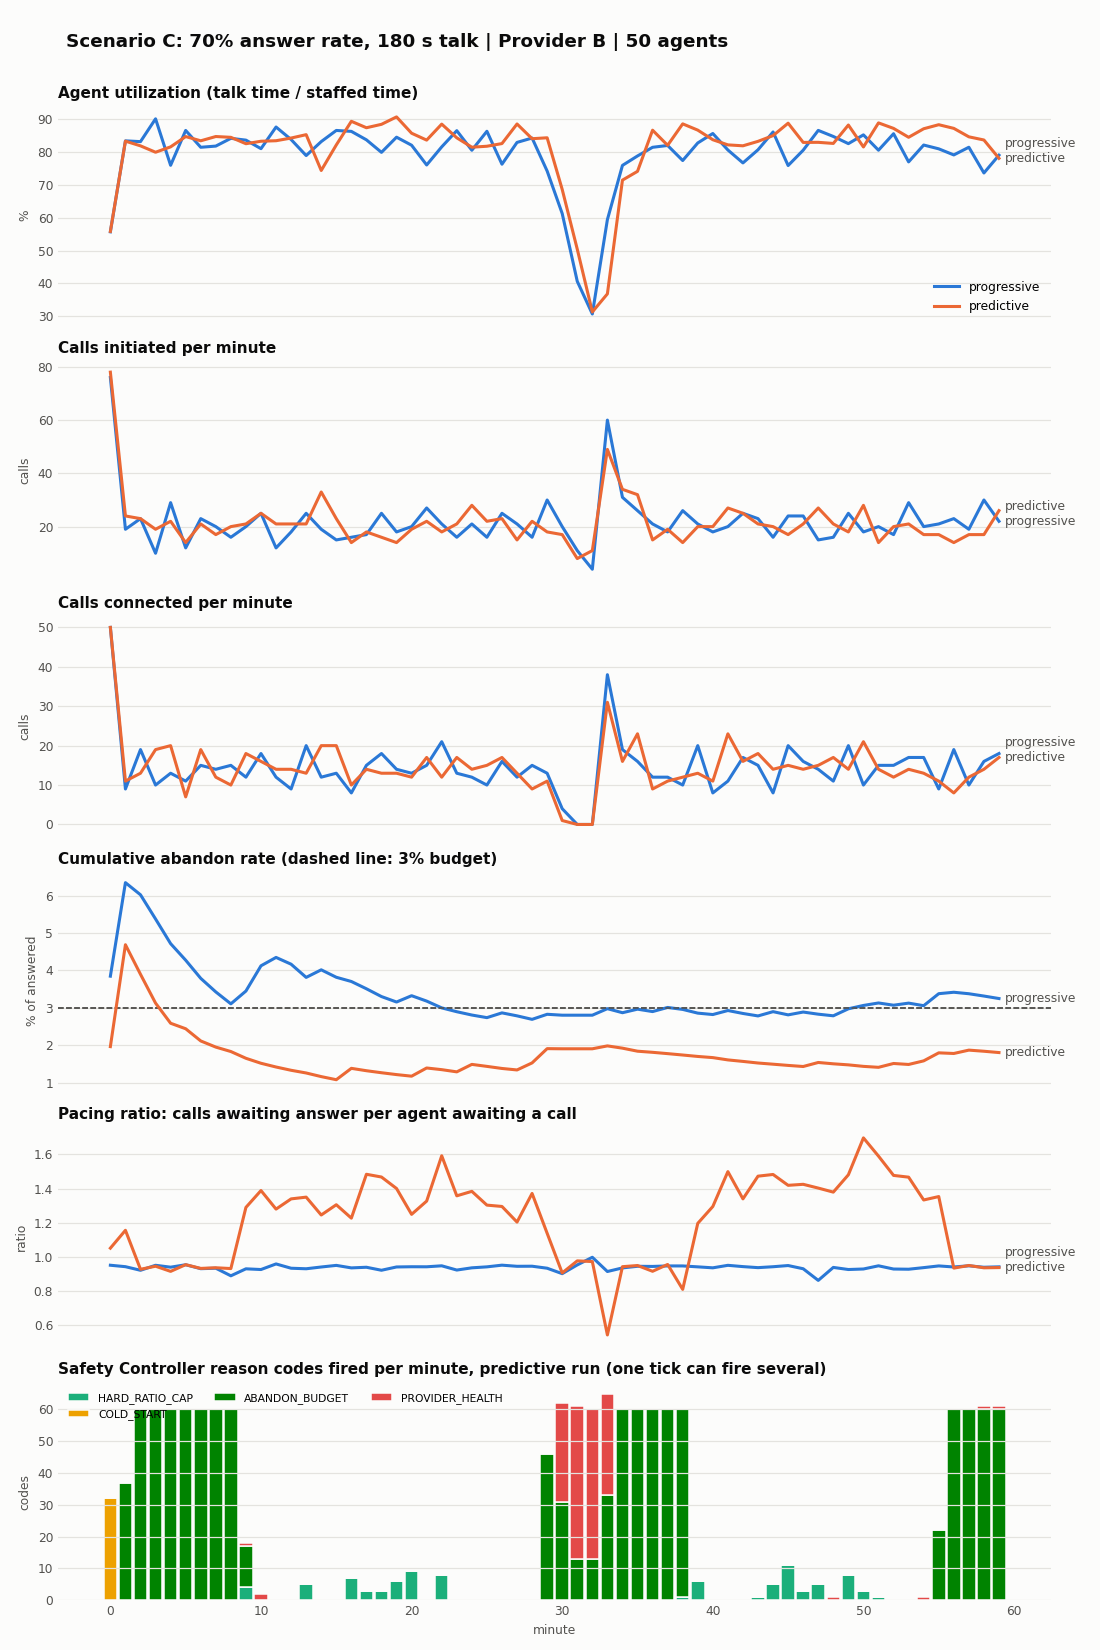
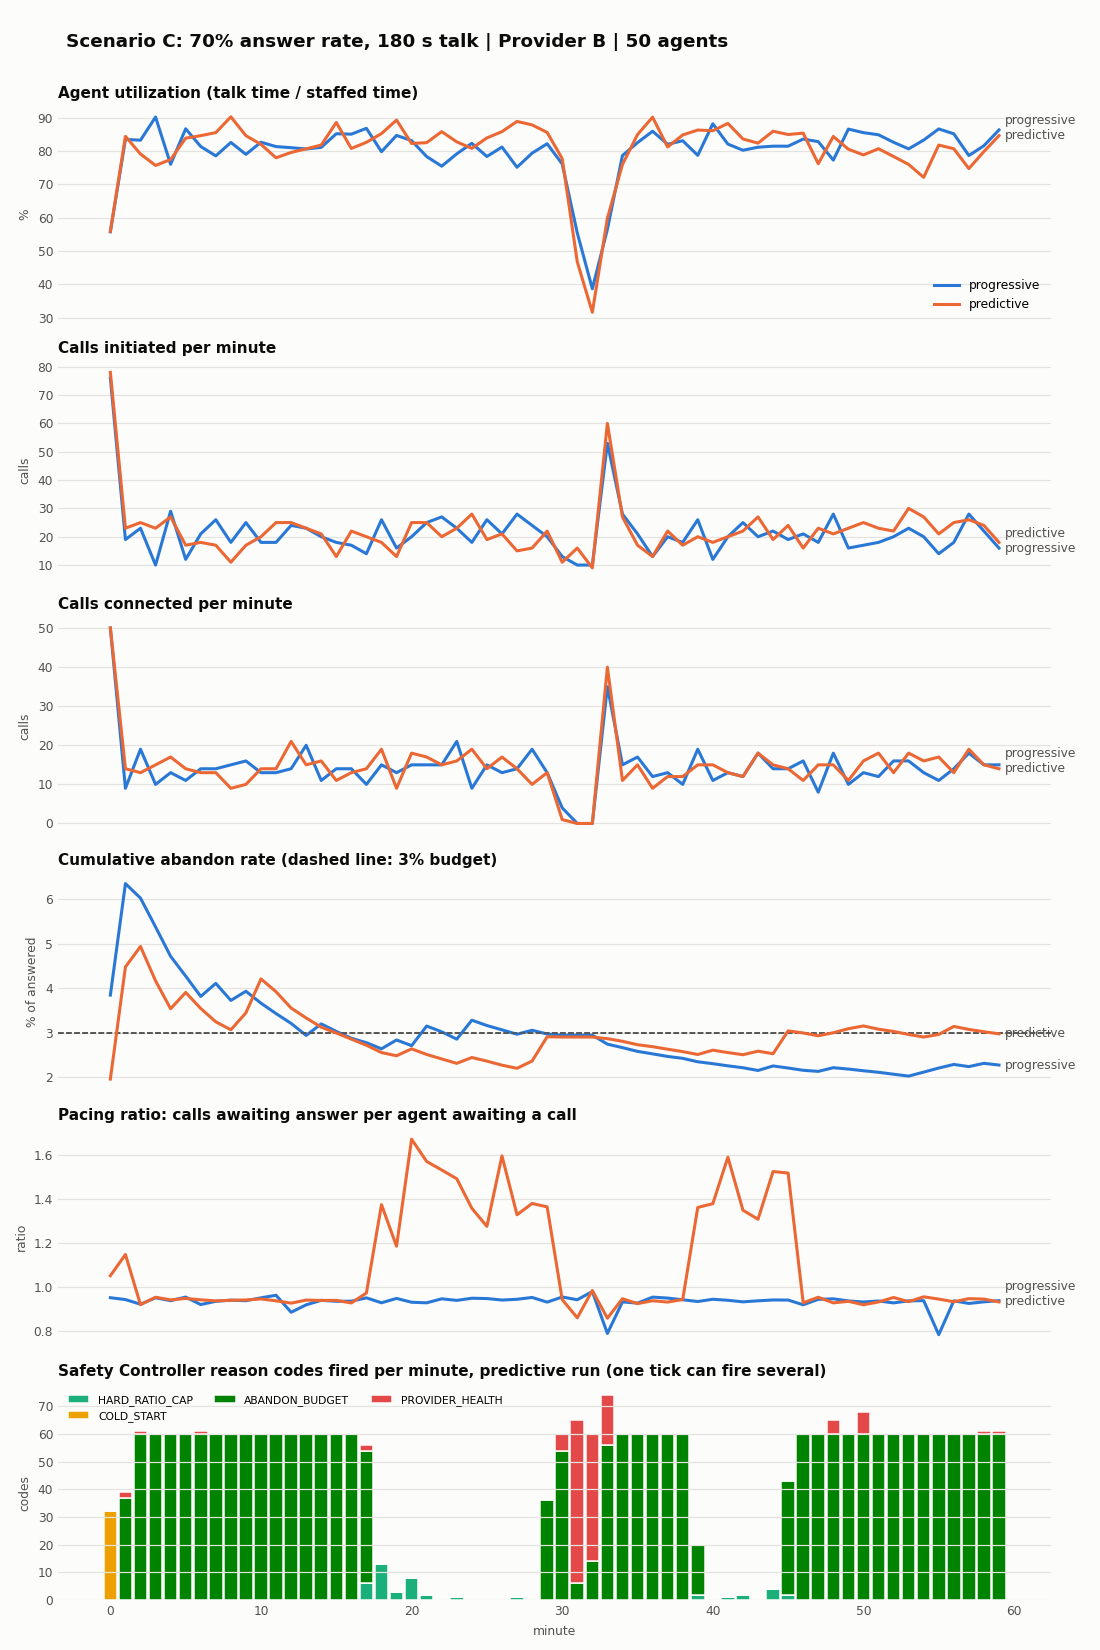
Ramp approvals back up after the breaker closes
After HALF_OPEN -> CLOSED the decider released full volume on the first
tick (0 -> 38 in the outage demo). Approvals are now capped for
recovery_ramp_s (20 s) at a fraction that grows linearly from
recovery_start_factor (20%) to 100%, reason PROVIDER_HEALTH. The age comes
from provider_health.opened_at, so it is the same for every worker. The
simulator applies the same rule; SIMULATION_RESULTS regenerated.

Why the breaker reopened at 50 s after OUTAGE OFF at 46.4 s: not window
pollution. Windows only count attempts created after the last state change.
The HALF_OPEN probes were dialed while the provider was still down, never
got a provider call id, and counted as failed after 3.5 s pending, which
landed after OUTAGE OFF. The demo now prints probes during vs after the
outage to show this.

diff --git a/demos/provider_outage.py b/demos/provider_outage.py
@@ -60,6 +60,7 @@ def main():
         time.sleep(25)
         say("OUTAGE OFF")
         control("B", outage=False)
+        outage_off = conn.execute("SELECT now() AS t").fetchone()["t"]
         recovered = wait_for(lambda: conn.execute(
             "SELECT 1 FROM safety_decisions WHERE at > now() - interval '1 second' AND approved_count > 0"
             " AND outcome <> 'REJECT'").fetchone() and conn.execute(
@@ -76,6 +77,20 @@ def main():
         print(f"\n  decisions rejected for PROVIDER_HEALTH: {opened}")
         print(f"  calls dialed against a REJECT decision: {dialed_while_open} (must be 0)")
         print(f"  breaker recovered to CLOSED and approvals resumed: {bool(recovered)}")
+        # Why the breaker can reopen right around OUTAGE OFF: HALF_OPEN lets a few probe calls through.
+        # A probe placed while the provider is still down hangs, counts as failed 3.5 s later, and the
+        # breaker correctly goes back to OPEN; that flip can land after OUTAGE OFF.
+        for label, cmp in (("during the outage", "<"), ("after recovery", ">=")):
+            r = conn.execute(f"""SELECT count(*) AS n, count(*) FILTER (WHERE c.provider_call_id IS NULL) AS failed
+                                FROM calls c JOIN dial_permits p ON p.id = c.permit_id
+                                JOIN safety_decisions d ON d.id = p.decision_id
+                                WHERE d.snapshot->>'breaker_state' = 'HALF_OPEN' AND c.created_at {cmp} %s""",
+                             (outage_off,)).fetchone()
+            print(f"  HALF_OPEN probe calls placed {label}: {r['n']}, never accepted by the provider: {r['failed']}")
+        ramp = [r["approved_count"] for r in conn.execute(
+            """SELECT approved_count FROM safety_decisions WHERE at > %s AND snapshot->>'breaker_state' = 'CLOSED'
+               ORDER BY id LIMIT 8""", (outage_off,))]
+        print(f"  approvals after the breaker closed again (ramping from 20%): {ramp}")
         finish(conn, opened > 0 and dialed_while_open == 0 and bool(recovered))
 
 

diff --git a/sim/simulator.py b/sim/simulator.py
@@ -88,7 +88,7 @@ class Sim:
         self.hold: deque[Call] = deque()              # answered, waiting for an agent
         self.abandon_win: deque[bool] = deque(maxlen=self.cfg.abandon_window)
         self.memory: dict = {}
-        self.breaker_state, self.breaker_since = "CLOSED", 0.0
+        self.breaker_state, self.breaker_since, self.breaker_changed = "CLOSED", 0.0, False
         self.attempts: deque[tuple[float, bool]] = deque(maxlen=2000)
         self.buckets = [Bucket() for _ in range(int(sc.duration_s // 60) + 1)]
         self.decisions: list[dict] = []
@@ -153,7 +153,8 @@ class Sim:
             connected=sum(c.state == "CONNECTED" for c in live),
             window_n=len(window), window_answered=sum(window), short_n=len(short_w), short_answered=sum(short_w),
             abandon_n=len(self.abandon_win), abandon_count=sum(self.abandon_win),
-            avg_setup_s=None, avg_talk_s=None, max_staffed_recent=len(self.agents))
+            avg_setup_s=None, avg_talk_s=None, max_staffed_recent=len(self.agents),
+            breaker_age_s=self.t - self.breaker_since if self.breaker_changed else None)
 
     def tick(self):
         self.at(1.0, self.tick)
@@ -187,7 +188,7 @@ class Sim:
         new = breaker.next_state(self.breaker_state, self.breaker_since, self.t, sum(recent), len(recent) - sum(recent),
                                  sum(probes), len(probes) - sum(probes))
         if new != self.breaker_state:
-            self.breaker_state, self.breaker_since = new, self.t
+            self.breaker_state, self.breaker_since, self.breaker_changed = new, self.t, True
 
     # ------------------------------------------------------------------ allocator + provider model
     def dispatch(self, n: int, mode: str):

diff --git a/tests/test_safety_rules.py b/tests/test_safety_rules.py
@@ -117,3 +117,17 @@ def test_pacer_cannot_switch_safety_off():
     snapshot is still capped."""
     d, _ = run(pred(10_000), snap(available=2, abandon_n=100, abandon_count=10))
     assert d.approved_calls <= 2 and d.mode == "PROGRESSIVE"
+
+
+def test_recovery_ramp_after_breaker_closes():
+    """Just CLOSED after an outage: start at 20% of the approval and ramp linearly to 100% over 20 s."""
+    full = run(pred(20), snap(available=10, breaker_state="CLOSED", breaker_age_s=None))[0]
+    assert (full.approved_calls, full.reason_codes) == (20, ()), "never tripped: no ramp"
+    start = run(pred(20), snap(available=10, breaker_state="CLOSED", breaker_age_s=0.0))[0]
+    assert (start.outcome, start.approved_calls, start.reason_codes) == ("REDUCE", 4, ("PROVIDER_HEALTH",))
+    half = run(pred(20), snap(available=10, breaker_state="CLOSED", breaker_age_s=10.0))[0]
+    assert half.approved_calls == 12, "20 x (0.2 + 0.8 x 0.5)"
+    done = run(pred(20), snap(available=10, breaker_state="CLOSED", breaker_age_s=20.0))[0]
+    assert done.approved_calls == 20 and "PROVIDER_HEALTH" not in done.reason_codes
+    tiny = run(pred(1), snap(available=10, breaker_state="CLOSED", breaker_age_s=0.0))[0]
+    assert tiny.approved_calls == 1, "never ramps a nonzero approval down to zero"

diff --git a/smartdialer/domain/safety_rules.py b/smartdialer/domain/safety_rules.py
@@ -89,6 +89,18 @@ def decide(proposal: PacingProposal, snap: Snapshot, cfg: CampaignSettings, memo
         notes.append(f"breaker HALF_OPEN: at most {cfg.half_open_probes} probe calls")
         approved = cfg.half_open_probes
         outcome = outcome if outcome == "FALLBACK_TO_PROGRESSIVE" else "REDUCE"
+    # PROVIDER_HEALTH (recovery): the breaker has only just CLOSED again, on the strength of a few
+    # probe calls. Ramp volume back up linearly over recovery_ramp_s instead of releasing the whole
+    # backlog at once onto a provider that may still be fragile.
+    age = snap.breaker_age_s
+    if snap.breaker_state == "CLOSED" and age is not None and age < cfg.recovery_ramp_s and approved > 0:
+        frac = cfg.recovery_start_factor + (1 - cfg.recovery_start_factor) * age / cfg.recovery_ramp_s
+        ramped = max(1, math.floor(approved * frac))
+        if ramped < approved:
+            reasons.append("PROVIDER_HEALTH")
+            notes.append(f"breaker closed {age:.0f}s ago: ramping, {approved} x {frac:.2f} -> {ramped}")
+            approved = ramped
+            outcome = outcome if outcome == "FALLBACK_TO_PROGRESSIVE" else "REDUCE"
 
     return SafetyDecision(approved, mode, outcome, tuple(reasons), notes=tuple(notes)), mem
 

diff --git a/smartdialer/safety/snapshot.py b/smartdialer/safety/snapshot.py
@@ -11,6 +11,8 @@ SELECT now() AS taken_at,
        c.fencing_token,
        (c.pacing_lease_owner = %(worker)s AND c.pacing_lease_expires_at > now()) AS lease_mine,
        COALESCE((SELECT breaker_state FROM provider_health WHERE provider_name = c.provider_name), 'CLOSED') AS breaker_state,
+       (SELECT EXTRACT(EPOCH FROM now() - opened_at) FROM provider_health WHERE provider_name = c.provider_name)
+           AS breaker_age_s,
        a.*, k.*, w.*, ab.*, avgs.*,
        COALESCE((SELECT max((s.snapshot->>'staffed')::int) FROM safety_decisions s
                  WHERE s.campaign_id = c.id AND s.at > now() - %(drop_window)s * interval '1 second'), 0)
@@ -77,4 +79,5 @@ def load_snapshot(conn, campaign_id: int, cfg: CampaignSettings, worker_id: str,
         avg_setup_s=float(r["avg_setup_s"]) if r["avg_setup_s"] is not None else None,
         avg_talk_s=float(r["avg_talk_s"]) if r["avg_talk_s"] is not None else None,
         max_staffed_recent=r["max_staffed_recent"],
+        breaker_age_s=float(r["breaker_age_s"]) if r["breaker_age_s"] is not None else None,
     )

diff --git a/smartdialer/config.py b/smartdialer/config.py
@@ -39,6 +39,8 @@ class CampaignSettings:
     agent_drop_cooldown_s: float = 30.0
     half_open_probes: int = 3
     degraded_factor: float = 0.5
+    recovery_ramp_s: float = 20.0           # after the breaker closes, ramp volume back up over this long
+    recovery_start_factor: float = 0.2      # ... starting from this fraction of what would be approved
     # Reconciliation (reaper)
     reconcile_pre_dial_s: float = 5.0       # pre-INITIATED longer than this: ask the provider
     reconcile_in_flight_s: float = 60.0     # INITIATED / RINGING with no news for this long

diff --git a/smartdialer/domain/types.py b/smartdialer/domain/types.py
@@ -34,6 +34,7 @@ class Snapshot:
     avg_setup_s: float | None
     avg_talk_s: float | None
     max_staffed_recent: int     # highest `staffed` seen in recent decisions (agent-drop rule)
+    breaker_age_s: float | None = None   # seconds in the current breaker state; None = never changed
 
     def to_json(self) -> dict:
         d = asdict(self)

diff --git a/docs/SIMULATION_RESULTS.md b/docs/SIMULATION_RESULTS.md
@@ -69,20 +69,20 @@ These follow directly from the table and charts:
 |---|---|---|---|---|---|---|---|
 | A | A | progressive | 47.0% | 13.0 | 0.00% | 0 / 609 | 0% |
 | A | A | predictive | 64.7% | 18.4 | 0.00% | 0 / 860 | 100% |
-| A | B | progressive | 44.2% | 12.7 | 2.80% | 17 / 608 | 0% |
-| A | B | predictive | 51.3% | 15.5 | 2.68% | 20 / 745 | 43% |
+| A | B | progressive | 41.8% | 11.9 | 1.94% | 11 / 567 | 0% |
+| A | B | predictive | 53.2% | 14.8 | 2.54% | 18 / 708 | 51% |
 | B | A | progressive | 63.2% | 25.0 | 0.00% | 0 / 1166 | 0% |
 | B | A | predictive | 70.4% | 26.8 | 0.00% | 0 / 1252 | 100% |
-| B | B | progressive | 58.9% | 23.4 | 1.89% | 21 / 1113 | 0% |
-| B | B | predictive | 64.1% | 24.6 | 1.96% | 23 / 1173 | 53% |
+| B | B | progressive | 59.2% | 23.6 | 2.22% | 25 / 1127 | 0% |
+| B | B | predictive | 62.0% | 24.7 | 2.53% | 30 / 1184 | 44% |
 | C | A | progressive | 85.3% | 16.7 | 0.00% | 0 / 779 | 0% |
 | C | A | predictive | 88.2% | 17.3 | 0.37% | 3 / 812 | 100% |
-| C | B | progressive | 83.4% | 16.3 | 3.05% | 24 / 787 | 0% |
-| C | B | predictive | 84.2% | 16.3 | 1.68% | 13 / 772 | 71% |
+| C | B | progressive | 83.4% | 16.2 | 1.94% | 15 / 773 | 0% |
+| C | B | predictive | 84.0% | 16.5 | 2.90% | 23 / 794 | 35% |
 | D | A | progressive | 55.6% | 18.2 | 0.00% | 0 / 851 | 0% |
 | D | A | predictive | 65.4% | 21.1 | 0.30% | 3 / 989 | 98% |
-| D | B | progressive | 53.5% | 17.1 | 2.45% | 20 / 817 | 0% |
-| D | B | predictive | 52.2% | 17.3 | 3.58% | 30 / 837 | 19% |
+| D | B | progressive | 54.7% | 16.9 | 1.98% | 16 / 807 | 0% |
+| D | B | predictive | 58.0% | 19.3 | 2.17% | 20 / 921 | 38% |
 | E | A | progressive | 65.8% | 19.3 | 0.00% | 0 / 580 | 0% |
 | E | A | predictive | 74.6% | 20.6 | 0.48% | 3 / 622 | 76% |
 | F | A | progressive | 50.3% | 15.0 | 0.00% | 0 / 449 | 0% |

diff --git a/PLAN.md b/PLAN.md
@@ -421,3 +421,4 @@ Each of these came from a failing demo, test or load run, not from preference.
 | D12 | `loadtest/report.py` | Folded into `loadtest/run.py` | One file was enough |
 | D13 | Each call transaction consumes one permit unit (the permit row stays locked until commit) | Workers claim up to 10 units per short statement; each call pins the permit `FOR KEY SHARE`; unused units are dropped; revoke is two steps (retire, then `FOR UPDATE` to wait for earlier pins). Invariant becomes calls <= claimed <= approved | Measured by the load test: the permit row serialized dispatch per campaign (~110 to 120/s, throughput fell with more workers). After: p50 reservation 18 ms to 4.6 ms, +28% to +77% throughput. See ADR-4 and SCALING.md |
 | D14 | ANSWERED always bridges the agent when applied | An ANSWERED applied more than `max_answer_hold_ms` after the answer (earliest of provider timestamp and receive time), or with COMPLETED already in the inbox, is recorded ANSWERED (unbridged) then ABANDONED, counted, and hung up if still live | Bug: crash_after_answered variant 1 recorded CONNECTED for a borrower nobody was bridged to. Now consistent with out_of_order (also an abandon) |
+| D15 | When the breaker closes, approvals go straight back to normal | For `recovery_ramp_s` (20 s) after CLOSED, approvals are capped at a fraction that grows linearly from `recovery_start_factor` (20%) to 100% | Outage demo: approvals jumped 0 -> 38 on the first CLOSED tick, onto a provider that had just recovered. The reopen at 50 s was not window pollution: the HALF_OPEN probes were dialed while the outage was still on and timed out after it ended |

diff --git a/docs/ARCHITECTURE.md b/docs/ARCHITECTURE.md
@@ -143,7 +143,7 @@ sequenceDiagram
 | Worker crash between commit and dial, or after dial before INITIATED | Reaper polls `get_call_status(call id)`. NOT_FOUND -> CANCELLED(NOT_DIALED), and the attempt is not counted; found -> real status | `make demo-worker-crash` |
 | Crash while applying ANSWERED | The event stays in the inbox until processed; any worker resumes. An answer applied after the hold time, or after the call ended, is ABANDONED and counted, never CONNECTED | `make demo-crash-after-answered` |
 | Agents drop | HARD_RATIO_CAP immediately, AGENT_DROP forces progressive | `make demo-agent-drop` |
-| Provider outage | Breaker opens, decisions REJECT, HALF_OPEN probes, recovery | `make demo-provider-outage` |
+| Provider outage | Breaker opens, decisions REJECT, HALF_OPEN probes, recovery ramps from 20% to 100% over 20 s | `make demo-provider-outage` |
 | Answer-rate shock | Hard cap first, ANSWER_RATE_DRIFT forces progressive | `make demo-answer-rate-shock` |
 | Two workers dial the same borrower / reserve the same agent | SKIP LOCKED + state re-check; partial unique indexes as backstop | `tests/test_races.py` (50 processes) |
 | Deposed pacing leader | Fencing token checked in the permit claim and the per-call pin | `tests/test_permits.py` |
